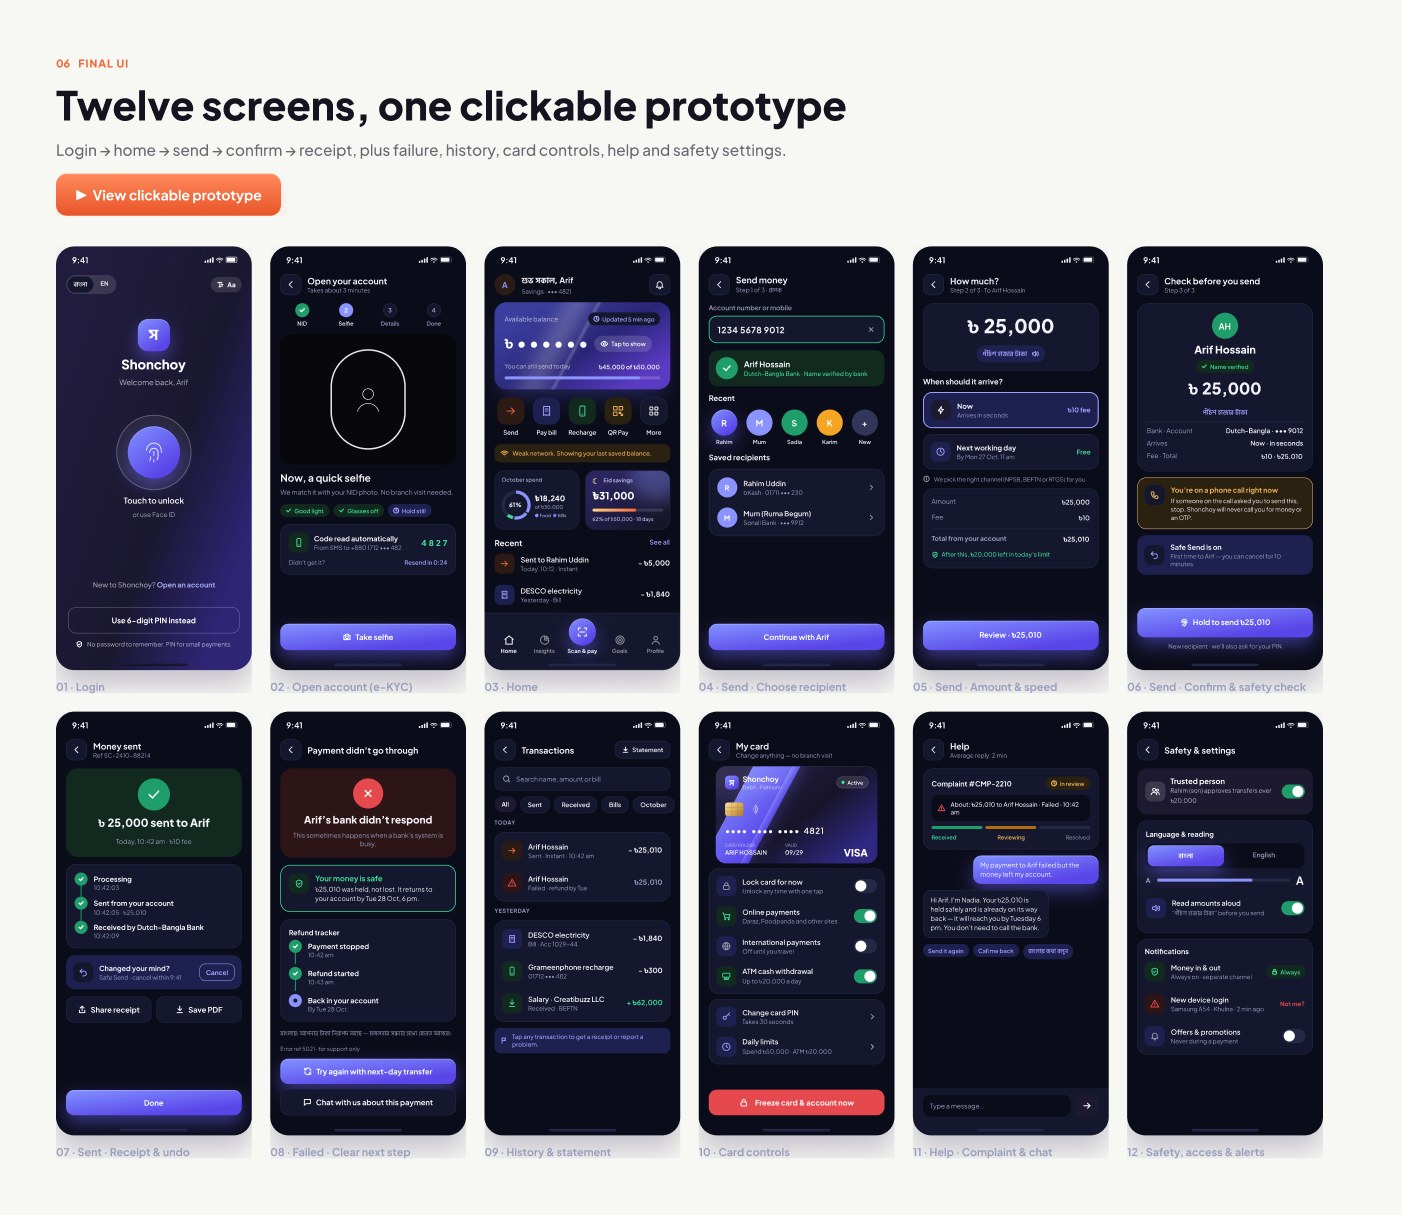
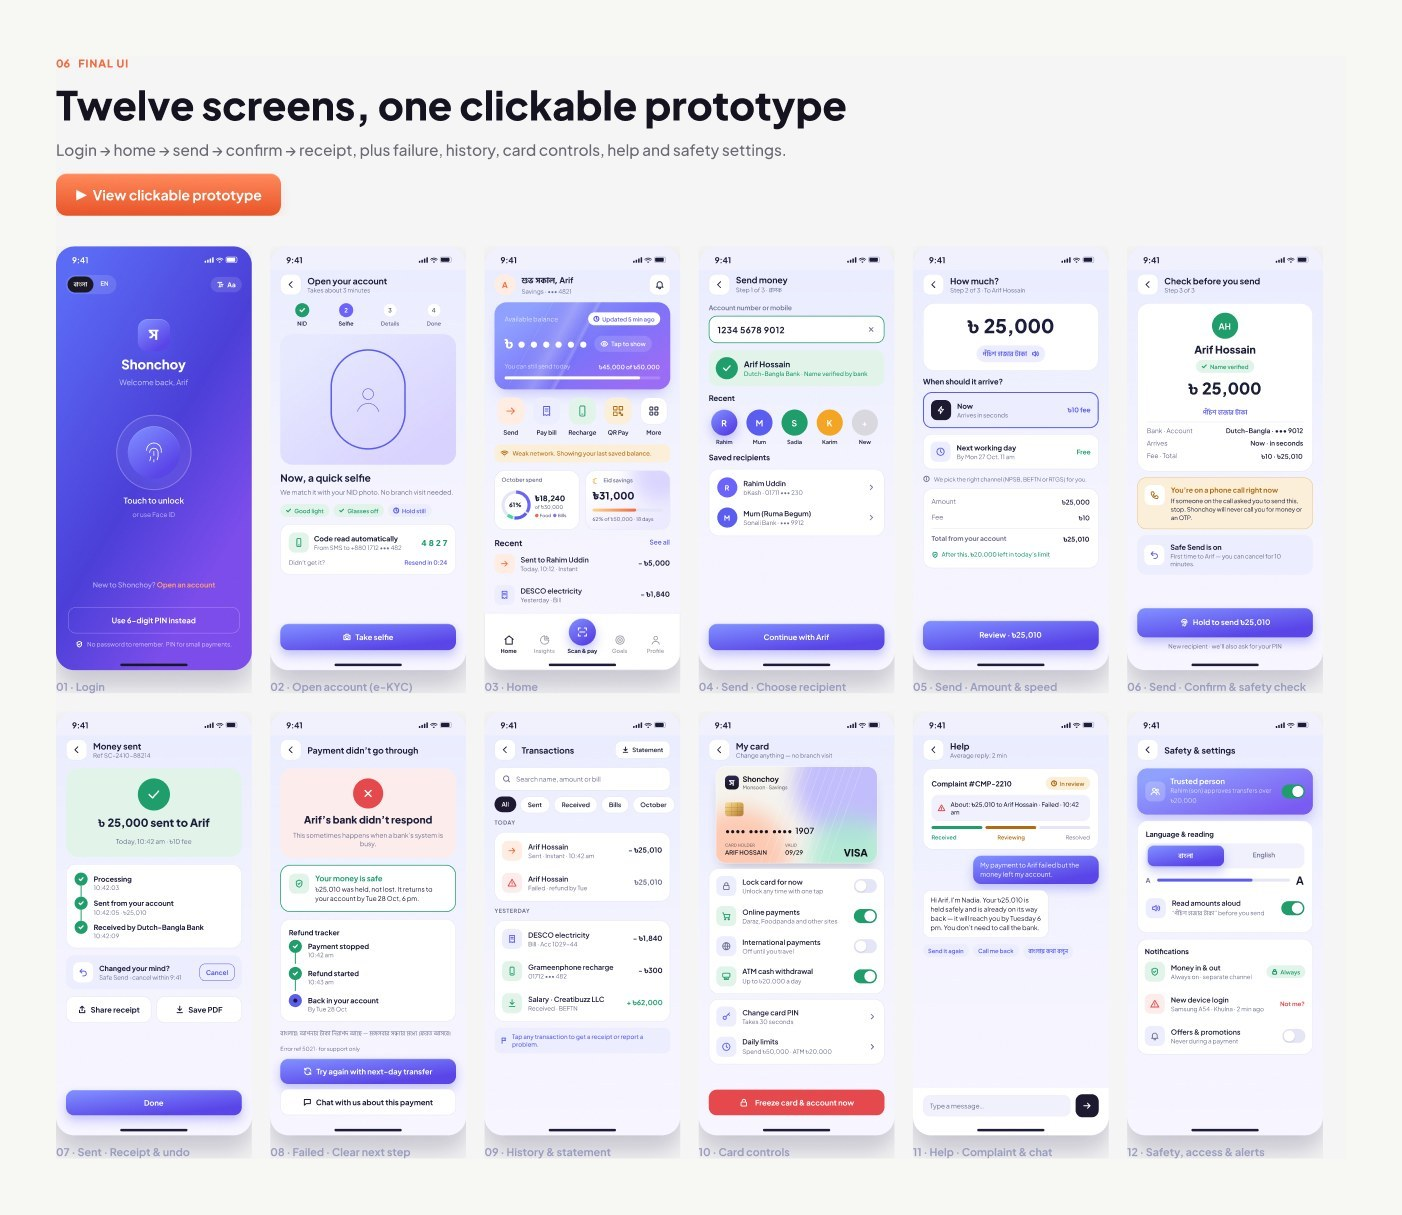
Shonchoy: use light mode screens on the site (prototype, cover, final UI, thumbnail)
Claude-Session: https://claude.ai/code/session_01M2zW5Ljrh9KqFAeEV7Kt6D

diff --git a/app.js b/app.js
@@ -22,7 +22,7 @@ const P = [
     tags: ['Fintech', 'Mobile app', 'Trust & safety', 'Accessibility', 'Prototype'],
     facts: [['Role', 'Product Designer'], ['Platform', 'iOS & Android'], ['Type', 'Concept project'], ['Tools', 'Figma, FigJam']],
     caps: ['Overview', 'Problem & solution', 'Research & persona', '12 banking problems → solutions', '5 ideas other bank apps don’t have', 'User flow', 'Final UI · 12 screens', 'Decisions & trade-offs', 'Card collection', 'Design system & metrics'],
-    alts: ['Shonchoy cover with dark amount, home and confirm screens and floating trust chips', 'Problem, how-might-we and solution cards', 'Three research insights and the persona Arif Hossain', 'Table of twelve banking app problems, what happens, the design solution and the screen', 'Scam-call pause, Safe Send undo, amount in words, trusted person and money-status-first ideas', 'Send money flow with failure, retry, help and ticket path', 'Twelve final dark app screens from login to safety settings', 'Six design decisions such as hold to send and a hidden balance', 'Midnight, Nakshi, Glass and Monsoon card designs', 'Colour variables, components, success metrics, accessibility and next steps']
+    alts: ['Shonchoy cover with light amount, home and confirm screens and floating trust chips', 'Problem, how-might-we and solution cards', 'Three research insights and the persona Arif Hossain', 'Table of twelve banking app problems, what happens, the design solution and the screen', 'Scam-call pause, Safe Send undo, amount in words, trusted person and money-status-first ideas', 'Send money flow with failure, retry, help and ticket path', 'Twelve final light app screens from login to safety settings', 'Six design decisions such as hold to send and a hidden balance', 'Midnight, Nakshi, Glass and Monsoon card designs', 'Colour variables, components, success metrics, accessibility and next steps']
   },
   {
     id: 'moodbrew', n: '01', title: 'MoodBrew',
@@ -82,7 +82,7 @@ function protoSection(p) {
       ${'</div>'}</div>
       <button class="pv-arrow" type="button" data-step="1" aria-label="Next screen">›</button></div>
       <aside class="pv-side">
-        ${d.themes ? '<div class="pv-theme" role="group" aria-label="App theme"><button type="button" data-theme="dark" aria-pressed="true">Dark</button><button type="button" data-theme="light" aria-pressed="false">Light</button></div>' : ''}<div class="pv-now"></div><p class="pv-scrolltip" hidden>↕ Scroll inside the phone to see more</p>
+        ${d.themes ? '<div class="pv-theme" role="group" aria-label="App theme"><button type="button" data-theme="light" aria-pressed="true">Light</button><button type="button" data-theme="dark" aria-pressed="false">Dark</button></div>' : ''}<div class="pv-now"></div><p class="pv-scrolltip" hidden>↕ Scroll inside the phone to see more</p>
         <ol class="pv-list">${d.screens.map((s, i) => `<li><button type="button" data-go="${i}"><b>${String(i + 1).padStart(2, '0')}</b>${s.name.replace(/^\d+ · /, '')}</button></li>`).join('')}</ol>
         <div class="pv-ctrls"><button type="button" data-prev>← Previous</button><span class="count"></span><button type="button" data-step="1">Next →</button><button type="button" data-go="0">Restart</button></div>
         <label class="pv-toggle"><input type="checkbox" data-hs> Show clickable areas</label>
@@ -144,7 +144,7 @@ function protoGo(id, i, back) {
   const s = d.screens[i];
   const img = root.querySelector('.pv-inner img');
   img.style.animation = 'none'; img.offsetHeight; img.style.animation = '';
-  img.src = root.dataset.mode === 'light' ? s.img.replace(/-(\d+)\.jpg$/, '-light-$1.jpg').replace(/\/(\w+)-light-/, '/$1-light-') : s.img; img.alt = s.name; img.style.aspectRatio = (1 / s.ar).toFixed(4);
+  img.src = (root.dataset.mode || (d.themes ? 'light' : '')) === 'light' ? s.img.replace(/-(\d+)\.jpg$/, '-light-$1.jpg').replace(/\/(\w+)-light-/, '/$1-light-') : s.img; img.alt = s.name; img.style.aspectRatio = (1 / s.ar).toFixed(4);
   const scr = root.querySelector('.pv-screen'); if (scr) { scr.classList.toggle('scrolly', !!s.scroll); scr.scrollTop = 0; }
   const tip = root.querySelector('.pv-scrolltip'); if (tip) tip.hidden = !s.scroll;
   root.querySelector('.hs-layer').innerHTML = s.hs.map(h => `<button class="pv-hs" type="button" data-to="${h.to}" aria-label="${h.n}: go to ${d.screens[h.to].name}" style="left:${h.l}%;top:${h.t}%;width:${h.w}%;height:${h.h}%"></button>`).join('');
